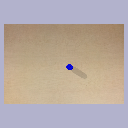
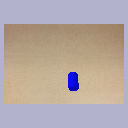
bounding boxes implemented. now testing detection accuracy

Changed region(s): [[0.5, 0.5, 0.6875, 0.7188]]

diff --git a/simulation/models/view_model.py b/simulation/models/view_model.py
@@ -2,24 +2,29 @@ import pybullet as p
 import time
 import pybullet_data
 import math
+import cv2
+import numpy as np 
+from detecto import core, utils, visualize
+from PIL import Image
 
 
 physicsClient = p.connect(p.GUI)
 p.setAdditionalSearchPath(pybullet_data.getDataPath())
-# p.configureDebugVisualizer(p.COV_ENABLE_GUI,0)
+p.configureDebugVisualizer(p.COV_ENABLE_GUI,0)
 print(pybullet_data.getDataPath())
 
 
 p.setGravity(0,0,0)
+p.setAdditionalSearchPath(pybullet_data.getDataPath())
 planeId = p.loadURDF("plane.urdf")
 tableid = p.loadURDF('table/table.urdf',[0,0,0],p.getQuaternionFromEuler([0,0,0]))
 
 p.setAdditionalSearchPath('/home/developer/uncertainty/simulation/models')
-bottle = p.loadURDF('bottle/bottle.urdf',[0,0,0.65],p.getQuaternionFromEuler([1.57,0,0]))
-apple = p.loadURDF('apple/apple.urdf',[0.5,0,0.65],p.getQuaternionFromEuler([3.14,0,0]))
+# bottle = p.loadURDF('bottle/bottle.urdf',[0,0,0.65],p.getQuaternionFromEuler([1.57,0,0]))
+# apple = p.loadURDF('apple/apple.urdf',[0.5,0,0.65],p.getQuaternionFromEuler([3.14,0,0]))
 coke = p.loadURDF('coke/coke.urdf',[1.0,0,0.65],p.getQuaternionFromEuler([1.57,0,0]))
-orange = p.loadURDF('orange/orange.urdf',[1.5,0,0.65],p.getQuaternionFromEuler([0,0,0]))
-pepsi = p.loadURDF('pepsi/pepsi.urdf',[2,0,0.65],p.getQuaternionFromEuler([1.57,0,0]))
+orange = p.loadURDF('orange/orange.urdf',[0,0,0.65],p.getQuaternionFromEuler([0,0,0]))
+pepsi = p.loadURDF('pepsi/pepsi.urdf',[2,0,0.66],p.getQuaternionFromEuler([1.57,0,0]))
 cereal = p.loadURDF('cereal/cereal.urdf',[2.5,0,0.65],p.getQuaternionFromEuler([1.57,0,0]))
 lysol = p.loadURDF('lysol/lysol.urdf',[3,0,0.65],p.getQuaternionFromEuler([0,0,0]))
 lipton = p.loadURDF('lipton/lipton.urdf',[3.5,0,0.65],p.getQuaternionFromEuler([0,0,0]))
@@ -34,7 +39,7 @@ p.setRealTimeSimulation(1)
 
 while 1:
 	viewMatrix = p.computeViewMatrix(
-    cameraEyePosition=[0, 0, 3],
+    cameraEyePosition=[0, 0, 2],
     cameraTargetPosition=[0, 0, 0],
     cameraUpVector=[0, 1, 0])
 
@@ -45,11 +50,81 @@ while 1:
 	    farVal=3.1)
 
 	width, height, rgbImg, depthImg, segImg = p.getCameraImage(
-	    width=224, 
-	    height=224,
+	    width=480, 
+	    height=480,
 	    viewMatrix=viewMatrix,
 	    projectionMatrix=projectionMatrix,
 	    shadow=True,
 	    renderer=p.ER_BULLET_HARDWARE_OPENGL)
+	model = core.Model.load('/home/developer/garage/grocery_detector.pth', \
+		['ambrosia','apple','banana','bottle','cereal','coke',\
+				'lipton','lysol','milk','nutella','orange','oreo','pepsi'])
+	
+	rgbImg = Image.fromarray(rgbImg).convert('RGB')
+	predictions = model.predict(rgbImg)
+	# camera_view = cv2.cvtColor(np.array(rgbImg), cv2.COLOR_RGB2BGR)
+	camera_view = np.array(rgbImg)
+
+	labels, boxes, scores = predictions
+	boxes = boxes.numpy()
+	scores = scores.numpy()
+	# print(labels)
+	# visualize.show_labeled_image(camera_view, boxes, labels)
+	num_observed = len(labels)
+	observed = {}
+	preds = []
+	idd = 0
+	for i in range(num_observed):
+		dicts = {'name':labels[i],
+				 'id':idd,
+				'coordinates': boxes[i],
+				 'confidence':scores[i],
+				 'color': (np.random.randint(255),\
+				 		np.random.randint(255),\
+				 		np.random.randint(255))
+				 }
+		preds.append(dicts)
+		observed[labels[i]] = dicts
+		idd+=1
+
+	clusters = {}
+	for box in preds:
+		fit = False
+		mean = np.sqrt((box['coordinates'][0]-box['coordinates'][2])**2 +\
+						(box['coordinates'][1]-box['coordinates'][3])**2)
+		for key in clusters:
+			if np.abs(key - mean) < 30:
+				clusters[key].append(box)
+				fit = True
+				break
+		if not fit:
+			clusters[mean] = [box]
+
+	scene = {}
+	for key in clusters:
+		weights = [box['confidence'] for box in clusters[key]]
+		maxind = np.argmax(weights)
+		maxweightedbox = clusters[key][maxind]
+		scene[maxweightedbox['name']] = [(box['name'], box['confidence']) for box in clusters[key]]
+
+	print(scene)
+
+	print('**********************************')
+
+
+
+	for item in observed:
+		camera_view = cv2.rectangle(camera_view, (observed[item]['coordinates'][0],
+				 observed[item]['coordinates'][1]), (observed[item]['coordinates'][2], 
+				 observed[item]['coordinates'][3]), observed[item]['color'], 1)
+
+
+
+	# print(observed)
+	print('\n\n')
+	# cv2.rectangle(camera_view, (1,1), (100,100),(0,255,0),1)
+	cv2.imshow('ss', camera_view)
+	if cv2.waitKey(1) & 0xFF == ord('q'):
+	    break
 	p.stepSimulation()
 	# time.sleep(300)

diff --git a/simulation/models/camera.py b/simulation/models/camera.py
@@ -5,9 +5,13 @@ import pybullet as p
 import time
 import pybullet_data
 from PIL import Image
+import cv2
 
 direct = p.connect(p.GUI)  #, options="--window_backend=2 --render_device=0")
 #egl = p.loadPlugin("eglRendererPlugin")
+p.configureDebugVisualizer(p.COV_ENABLE_GUI,0)
+
+p.setGravity(0,0,0)
 
 p.setAdditionalSearchPath(pybullet_data.getDataPath())
 p.loadURDF('plane.urdf')
@@ -55,8 +59,16 @@ while 1:
                             shadow=True,
                             renderer=p.ER_BULLET_HARDWARE_OPENGL)
   # img_array = misc.imread(images[2])
-  im = Image.fromarray(images[2])
-  im.save('pepsi.png')
+  camera_view = cv2.cvtColor(images[2], cv2.COLOR_RGB2BGR)
+  cv2.imshow('ss', camera_view)
+  if cv2.waitKey(1) & 0xFF == ord('q'):
+        break
 
   p.stepSimulation()
-  time.sleep(2)
+  # time.sleep(2)
+
+
+
+#saving image
+# im = Image.fromarray(images[2])
+  # im.save('pepsi.png')
